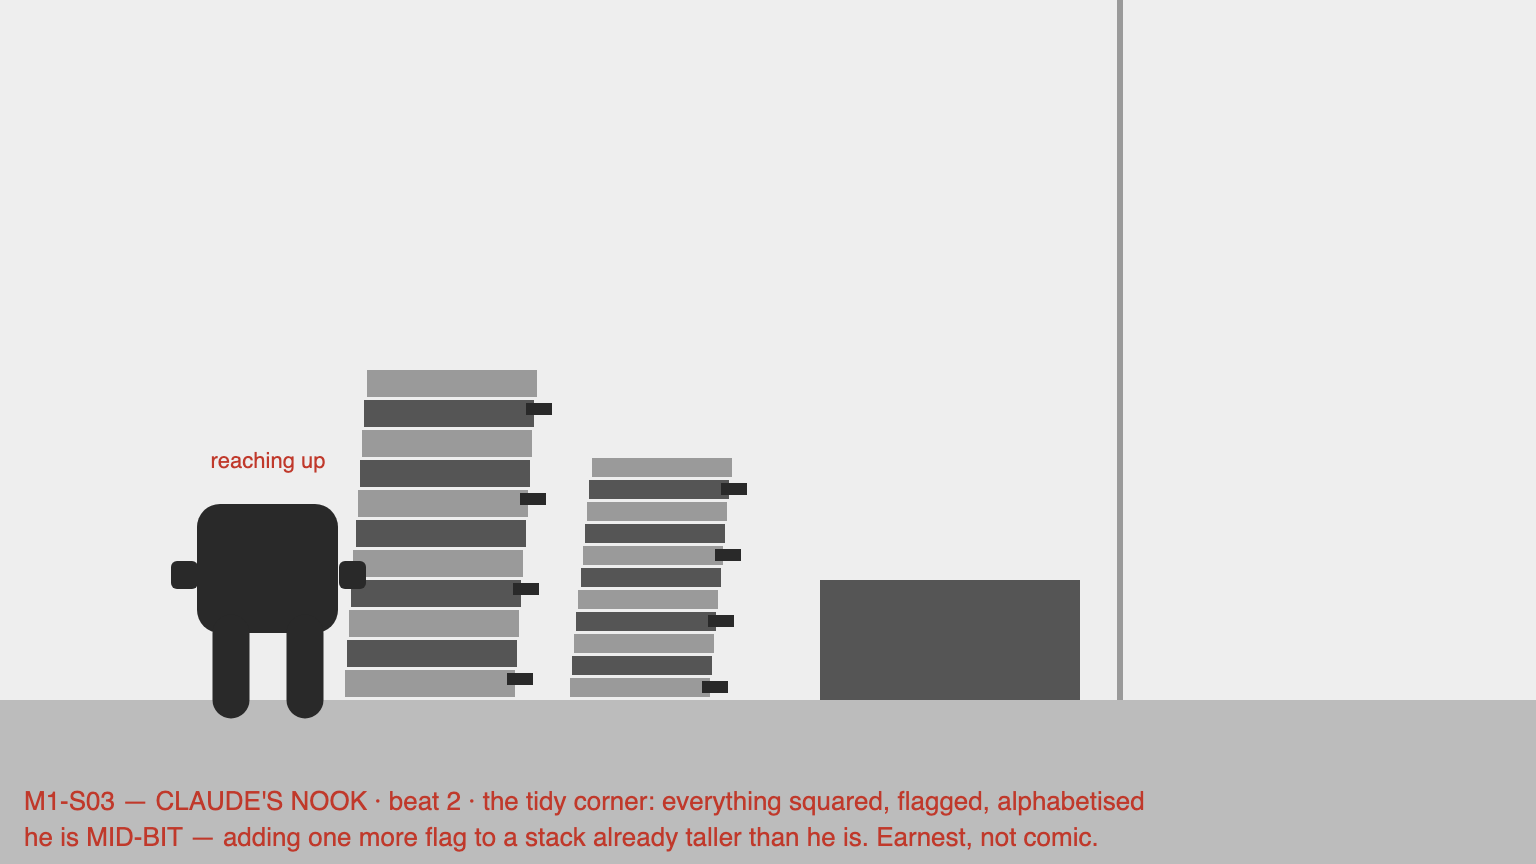
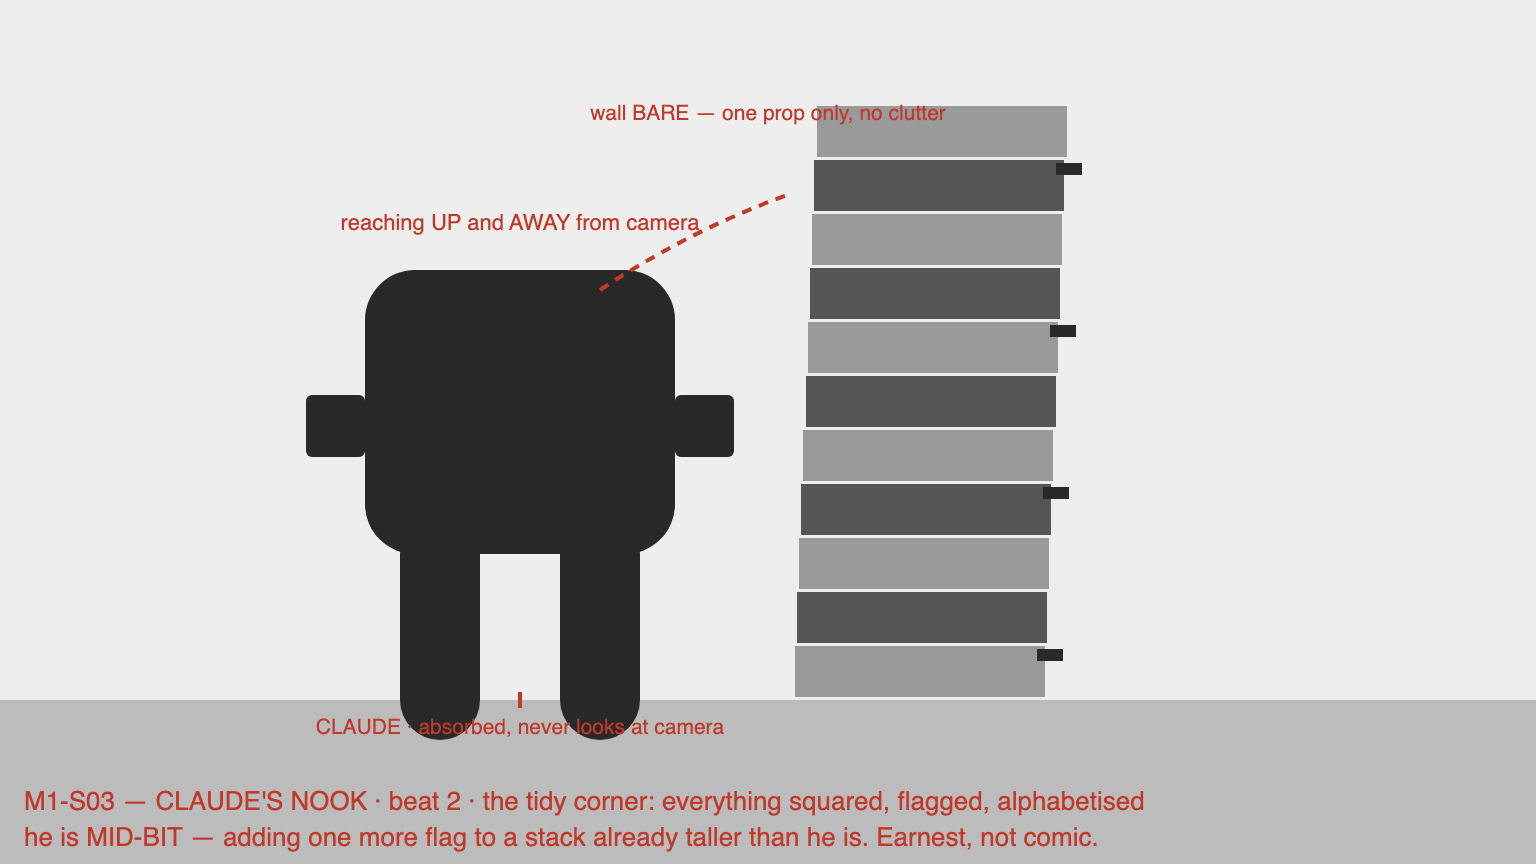
briefs(about-me-short): re-base cream to #f5e8d1, generate S03
Cream re-based to what GPT Image 2 actually produces, measured rather than
derived. S03 validates it: wall delta 2/3/2, a clean pass.

Floor target held provisional — it came from the cut wide (a furnished room
with a rug) and flags sparse plates that are visually correct. Re-base it
after S05/S06 rather than re-rolling good plates to hit a bad number.

Changed region(s): [[0.0938, 0.0, 0.75, 0.875], [0.375, 0.125, 0.4375, 0.1562]]

diff --git a/briefs/2026-08-02-about-me-short/m1-guides/make_m1_guides.py b/briefs/2026-08-02-about-me-short/m1-guides/make_m1_guides.py
@@ -318,12 +318,17 @@ shots["M1-S02-sean-desk-medium-guide"] = b + tail
 s, tail = head("M1-S03 — CLAUDE'S NOOK · beat 2 · the tidy corner: everything squared, "
                "flagged, alphabetised || he is MID-BIT — adding one more flag to a stack "
                "already taller than he is. Earnest, not comic.")
-b = s + floor() + corner(1120)
-b += paperstack(430, h=330, w=170) + paperstack(640, h=250, w=140)
-b += f'<rect x="820" y="{GY-120}" width="260" height="120" fill="{MID}"/>'
-b += claude(268, h=196)
-b += (f'<text x="268" y="{GY-232}" font-family="Helvetica" font-size="22" '
-      f'text-anchor="middle" fill="{CAPTION}">reaching up</text>')
+# Goofy grammar: he OWNS the frame, the wall behind is bare. One prop, no clutter.
+b = s + floor()
+b += paperstack(920, h=596, w=250)                      # the tower — taller than he is
+b += claude(520, h=430)                                  # ~50% of frame height
+b += (f'<path d="M600 {GY-410} q90 -60 190 -96" fill="none" stroke="{CAPTION}" '
+      f'stroke-width="4" stroke-dasharray="10 8"/>')     # his reach, toward the stack
+b += (f'<text x="520" y="{GY-470}" font-family="Helvetica" font-size="22" '
+      f'text-anchor="middle" fill="{CAPTION}">reaching UP and AWAY from camera</text>')
+b += (f'<text x="{W//2}" y="120" font-family="Helvetica" font-size="21" '
+      f'text-anchor="middle" fill="{CAPTION}">wall BARE — one prop only, no clutter</text>')
+b += mark(520, "CLAUDE · absorbed, never looks at camera")
 shots["M1-S03-claude-nook-guide"] = b + tail
 
 # S04 — Codex's humming rack. The banked probe plate matches this setup.

diff --git a/briefs/2026-08-02-about-me-short/environment-style.md b/briefs/2026-08-02-about-me-short/environment-style.md
@@ -4,31 +4,41 @@ The binding look of the HQ set, and the **palette clause** every plate prompt ca
 verbatim. Written 2026-08-30 before any Movement 1 plate generated, because plates
 generated per-angle drift apart otherwise — and that drift is measured, not feared.
 
-## The measured problem
+## The measured problem, and the re-base
 
-Three existing assets, three different creams:
+Three existing assets came back with three different creams — a **37-level spread in red**
+between lightest and darkest. The first clause targeted the hero frame (#e5d7c2). Two plates
+generated against it then came back **consistently lighter**, in the same direction both
+times:
 
-| Asset | Paper | Floor |
+| Plate | Wall measured | Delta vs #e5d7c2 |
 |---|---|---|
-| `art-viz/route-c--gpt-ref.png` — **the hero-frame anchor** | **#e5d7c2** | #dbccb9 |
-| `probe-205/D-clean-plate.png` | #d5be99 | #9f7862 |
-| `cast-scale-lineup.png` (model sheet, not a scene) | #faf0db | — |
+| S02 all-corners wide (cut) | (235, 218, 194) | +6 / +3 / 0 — pass |
+| S02 desk medium | (245, 232, 209) | **+16 / +17 / +15** — fail |
 
-A **37-level spread in red and 66 in blue** between the lightest and darkest. Cut two of
-these together and the room changes colour on the cut. The hero frame is canonical — the
-studio brief names it the hero-frame anchor — so every plate matches **it**, not the probe
-plate.
+**Ruled by Sean 2026-08-30: re-base the canonical cream to what the model actually
+produces.** Fighting a consistent bias on every generation costs a re-roll each time and
+buys nothing; consistency across twenty-odd plates matters more than matching the hero
+frame, which was a style test and never appears in the film. Both new values are **measured
+from real GPT Image 2 output**, not derived.
+
+| | Canonical | RGB | Source |
+|---|---|---|---|
+| **Paper / wall** | **#f5e8d1** | (245, 232, 209) | the S02 desk medium |
+| **Floor** | **#e8d6bc** | (232, 214, 188) | the S02 wide |
+
+*Superseded: #e5d7c2 / #dbccb9 (hero frame). Kept here as the record, not as the target.*
 
 ---
 
 ## THE PALETTE CLAUSE — paste verbatim into every plate and composite prompt
 
-> Warm cream drawing paper throughout, a light putty cream (#e5d7c2), never white and never
-> yellow. The floor is the same cream a half-step darker (#dbccb9). Walls and floor are
-> flat, quiet, and low-contrast — the room is a pale ground, and colour lives only on the
-> characters and on small props. Graphite line and cross-hatch shadow carry all the form.
-> Overall value stays high-key and even: no dark corners, no pooled shadow, no colour cast,
-> no vignette, no dramatic lighting.
+> Warm cream drawing paper throughout, a pale putty cream, never white and never yellow. The
+> floor is the same cream a half-step darker. Walls and floor are flat, quiet, and
+> low-contrast — the room is a pale ground, and colour lives only on the characters and on
+> small props. Graphite line and cross-hatch shadow carry all the form. Overall value stays
+> high-key and even: no dark corners, no pooled shadow, no colour cast, no vignette, no
+> dramatic lighting.
 
 **Never edit the clause per shot.** If a shot genuinely needs a different key — a night
 beat, the alarm's red flood — that is a **post** treatment, not a generation change
@@ -43,9 +53,20 @@ checking a *surgical edit* preserved a plate, use an edge-diff heatmap and FFT p
 correlation instead.
 
 ```
-sample upper wall  → target #e5d7c2  (229, 215, 194)  ±8
-sample floor       → target #dbccb9  (219, 204, 185)  ±8
+sample upper wall  → target #f5e8d1  (245, 232, 209)  ±8
+sample floor       → target #e8d6bc  (232, 214, 188)  ±8   ← PROVISIONAL, see below
 ```
+
+**The wall target is validated.** S03 measured (247, 235, 211) against it — delta 2/3/2, a
+clean pass on the first plate generated after the re-base.
+
+**The floor target is not, and should not be enforced yet.** It was measured from the CUT
+all-corners wide — a furnished room with a rug, which is not what a sparse plate looks like.
+S03's floor came back (242, 227, 201), 10–13 levels lighter, and **the plate is correct**:
+in a bare Goofy-style setup the floor is barely a separate surface from the wall, which is
+the look we want. The tolerance flagged a wrong target, not a defective plate. **Re-base the
+floor once S05 and S06 give two more sparse samples** — do not re-roll good plates to hit a
+number derived from an unrepresentative source.
 
 ---
 

diff --git a/briefs/2026-08-02-about-me-short/M1-STORYBOARD.md b/briefs/2026-08-02-about-me-short/M1-STORYBOARD.md
@@ -88,7 +88,7 @@ authority for the character-into-plate edit.
 |---|---|---|---|---|---|---|---|---|
 | S01 | Title card — HOW TO SOLVE A PROBLEM | 1 | typography, **not** Seedance | ✓ | — | n/a | — | The straight man: it must not move, so the alarm has something to break |
 | S02 | **Sean at his desk — MEDIUM, from behind** | 2 | full-scene | ✓ | **✓** | n/a | — | **The all-corners wide was CUT 2026-08-30.** In it the mascots clustered near centre and all faced camera, contradicting the per-corner premise it was meant to establish. The film opens on Sean typing and cuts out to each corner. Plate `S02-sean-desk-v1.png` |
-| S03 | Claude's tidy nook | 2 | plate + edit | ✓ | — | — | — | Mid-bit: adding one more flag to a stack taller than he is |
+| S03 | Claude's tidy nook | 2 | full-scene | ✓ | **✓** | n/a | — | Plate `S03-claude-nook-v1.png`. Wall passes the re-based cream at delta 2/3/2. Facing stated and honoured — he faces away, never at camera |
 | S04 | Codex's humming rack | 2 | plate + edit | ✓ | **✓** | **✓** | **✓** | **Proven end to end in probe-205.** Plate `U-codex-corner.png`, 7s clip `W-single-7s.mp4` |
 | S05 | Gemini's string-lit moodboard | 2 | plate + edit | ✓ | — | — | — | Mid-bit: taping up another concept, already bouncing to the next |
 | S06 | Grok's dartboard | 2 | plate + edit | ✓ | — | — | — | Darts in the **wall around** the board. The misses are the joke and they land before he throws |
